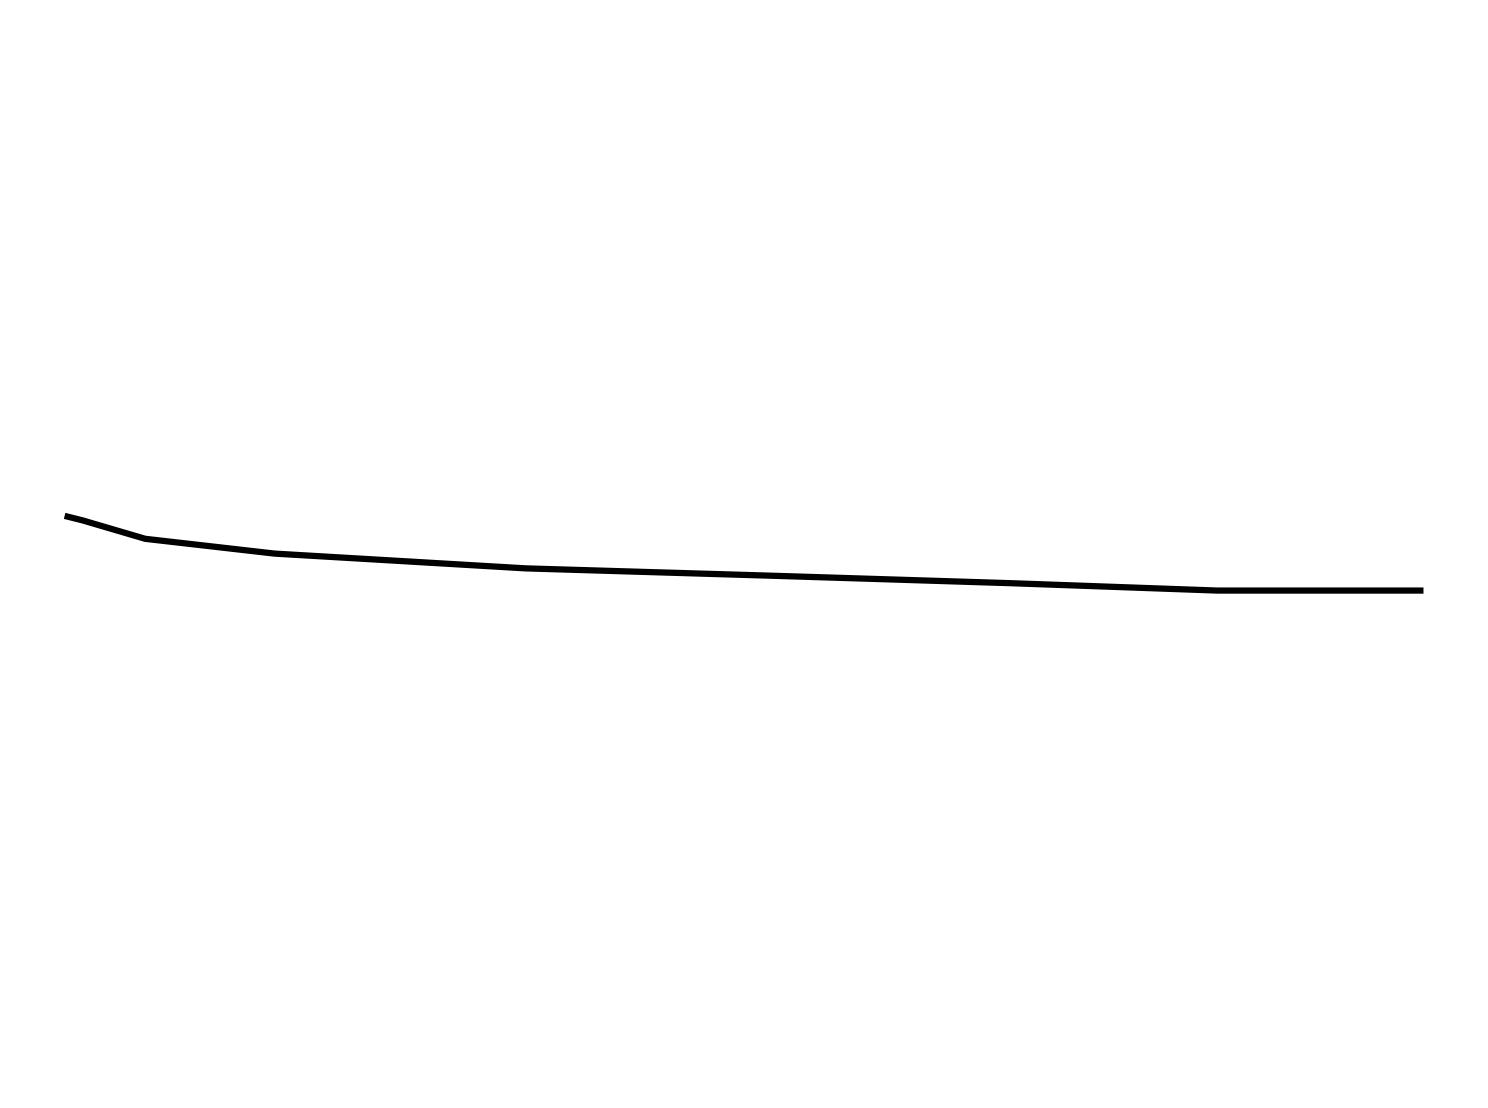
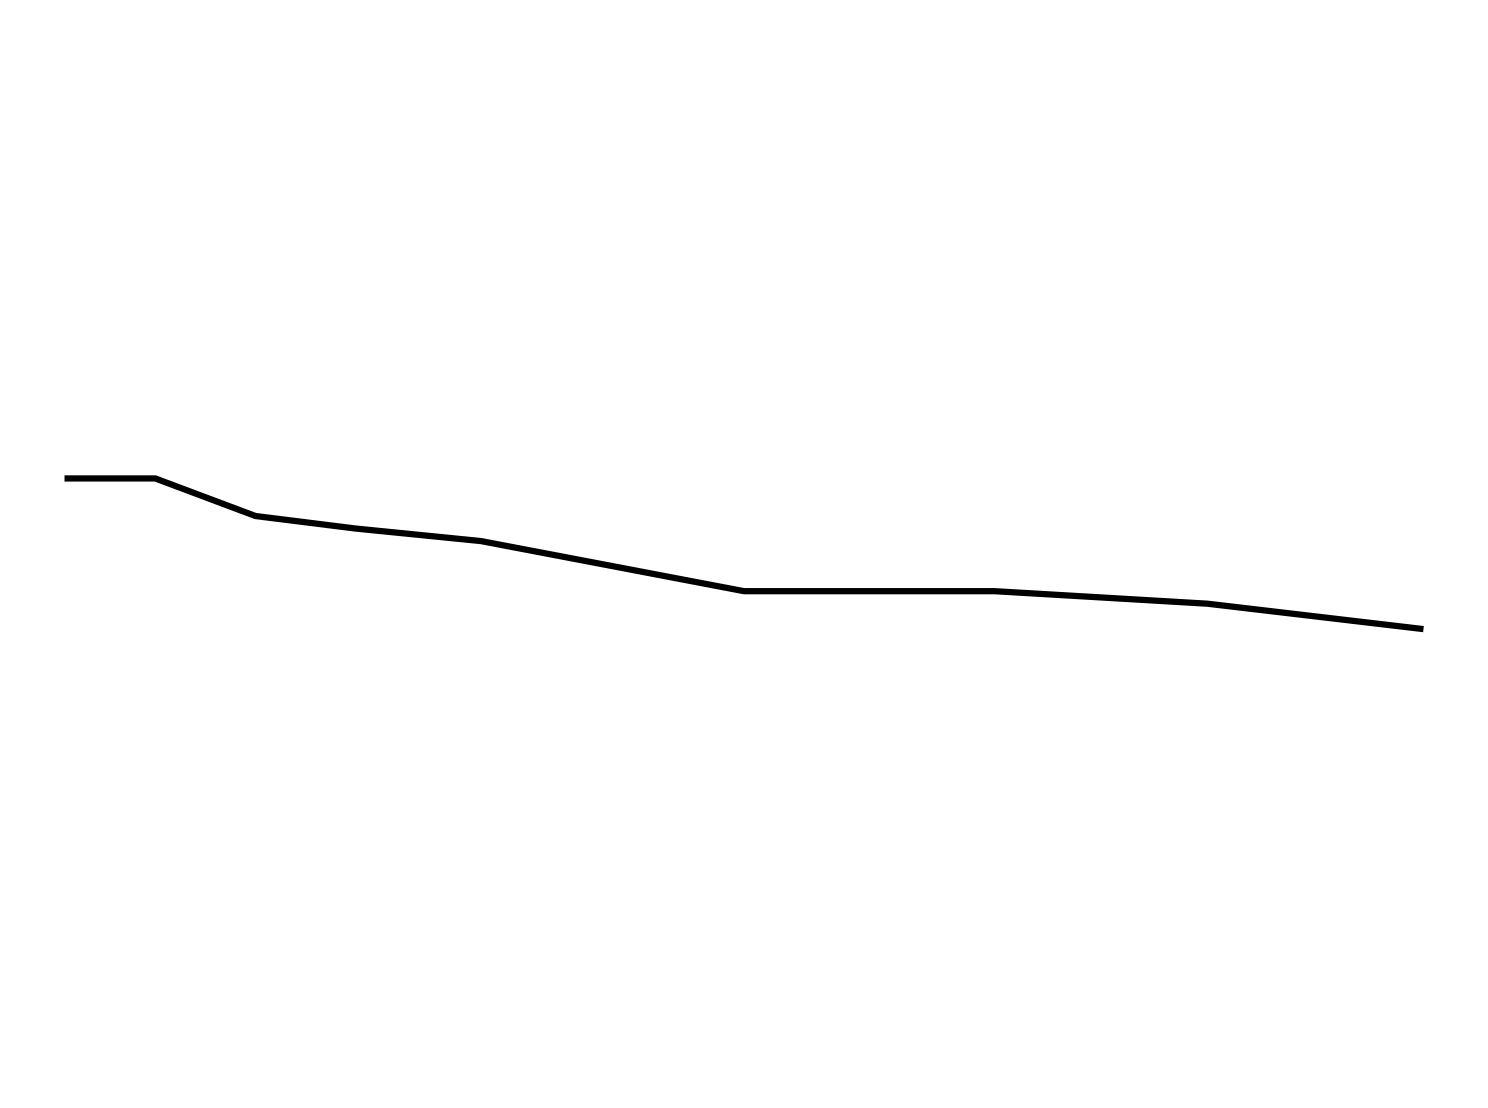
Test pull request

Changed region(s): [[0.1237, 0.4603, 0.9583, 0.583], [0.0309, 0.4296, 0.1546, 0.491]]

diff --git a/pag_web_clinicas/templates/pag_web_clinicas/template_pdf.html b/pag_web_clinicas/templates/pag_web_clinicas/template_pdf.html
@@ -7,25 +7,37 @@
 <style>
 @page {
     size: A4;
-    margin: 40mm 20mm 20mm 20mm;
-    
-    @top-center {
-        content: element(header);
-    }
+    margin: 25mm 20mm 30mm 20mm;
 }
 
 
 .header {
-    position: running(header);
-    height: 30mm;
-    width: 100%;
+    position: fixed;
+    top: -15mm;
+    left: 0;
+    right: 0;
 }
 
 .header img {
     width: 100%;
-    height: 30mm;
-    object-fit: cover;
+    height: 15mm;
     display: block;
+    border: 1px solid #d3d3d3;
+}
+
+.footer {
+    position: fixed;
+    bottom: -30mm;
+    left: 0;
+    right: 0;
+    height: 25mm;
+    text-align: center;
+}
+
+.footer img {
+    height: 20mm;
+    display: inline-block;
+    border: 1px solid #d3d3d3; 
 }
 
 * {
@@ -35,7 +47,6 @@
 
 body {
   margin: 0 auto;
-  padding-top: 20mm;
   font-family: DejaVu Sans, Arial, sans-serif;
   font-size: 12px;
   line-height: 1.5;
@@ -208,7 +219,7 @@ h3 {
 <body>
 
 <div class="header">
-  <img src="file:///home/re/Documents/pi/pi/media/header.png">
+  <img src="{{header_img}}">
 </div>
 
 <h3>TERMO DE CONSENTIMENTO TOXINA BOTULÍNICA</h3>
@@ -359,6 +370,11 @@ Fatores individuais influenciam no resultado. Pequena parte da população pode 
 Claudinéia Vieira<br>
 Biomédica Esteta<br>
 CRBM 9002
+{{testestes}}
+</div>
+
+<div class="footer">
+    <img src="{{ footer_img }}">
 </div>
 
 </body>

diff --git a/pag_web_clinicas/services.py b/pag_web_clinicas/services.py
@@ -2,6 +2,7 @@ from django.template.loader import render_to_string
 from weasyprint import HTML
 from django.utils import timezone
 from django.utils.formats import date_format
+from pathlib import Path
 
 class PDFgen:
     template_name = "pag_web_clinicas/template_pdf.html"
@@ -11,16 +12,32 @@ class PDFgen:
 
         self.data = data
 
-        self.data["fields"] = self.build_pdf_table()
-        self.data["path_ass"] = self.assinatura_img(data["assinatura"])
+        #header, foot
+        header_path = (Path(__file__).resolve().parent.parent 
+                        / 'media'
+                        / 'header.png')
+        self.data['header_img'] =  header_path.as_uri()
 
+        footer_path = (Path(__file__).resolve().parent.parent 
+                        / 'media'
+                        / 'footer.png')
+        self.data['footer_img'] =  footer_path.as_uri()
+
+        #tabela anamnese
+        self.data["fields"] = self.build_pdf_table()
+
+        #assinatura
+        self.data["path_ass"] = self.assinatura_img(data["assinatura"])
+        
+        #dia, mês, ano
         today = timezone.now()    
 
         self.data['dia'] = date_format(today, 'd')
         self.data['mes'] = date_format(today, 'F')
         self.data['ano'] = date_format(today, 'Y')
 
-        print(self.data['path_ass'])
+        print(header_path.as_uri())
+        
     def render_html(self) -> str:
         return render_to_string(self.template_name, self.data)
 
@@ -33,7 +50,6 @@ class PDFgen:
             f.write(pdf_bytes)
 
     def assinatura_img(self, c_form):
-        from pathlib import Path
         import matplotlib
         matplotlib.use("Agg")
         import matplotlib.pyplot as plt
